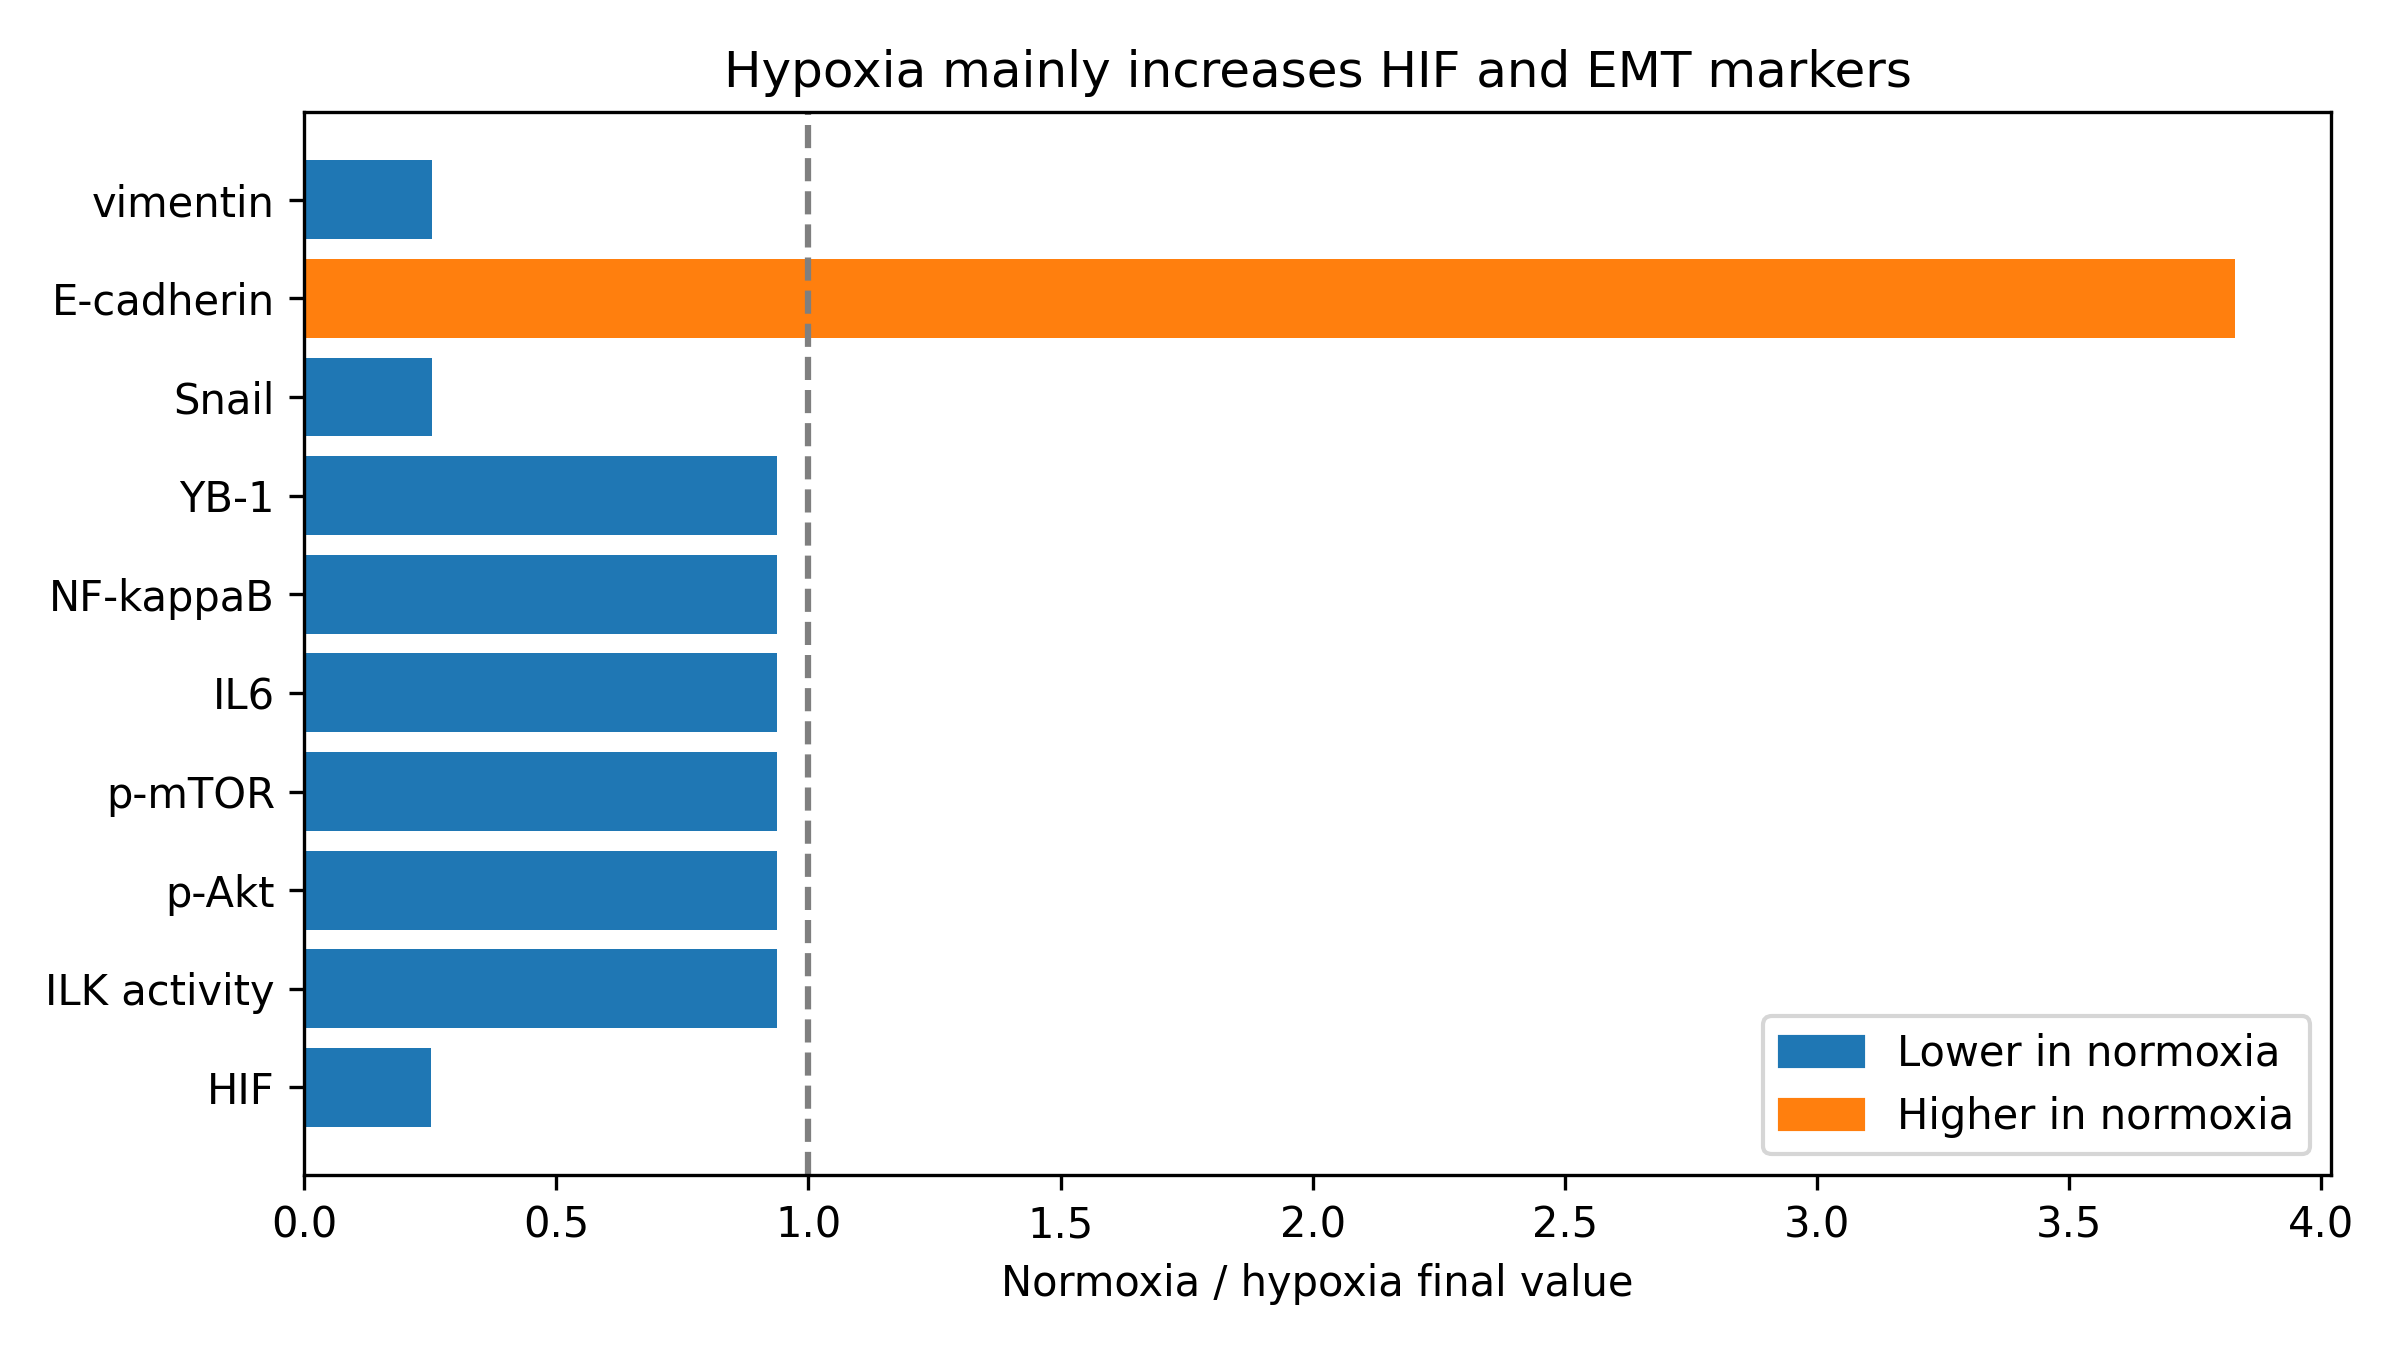
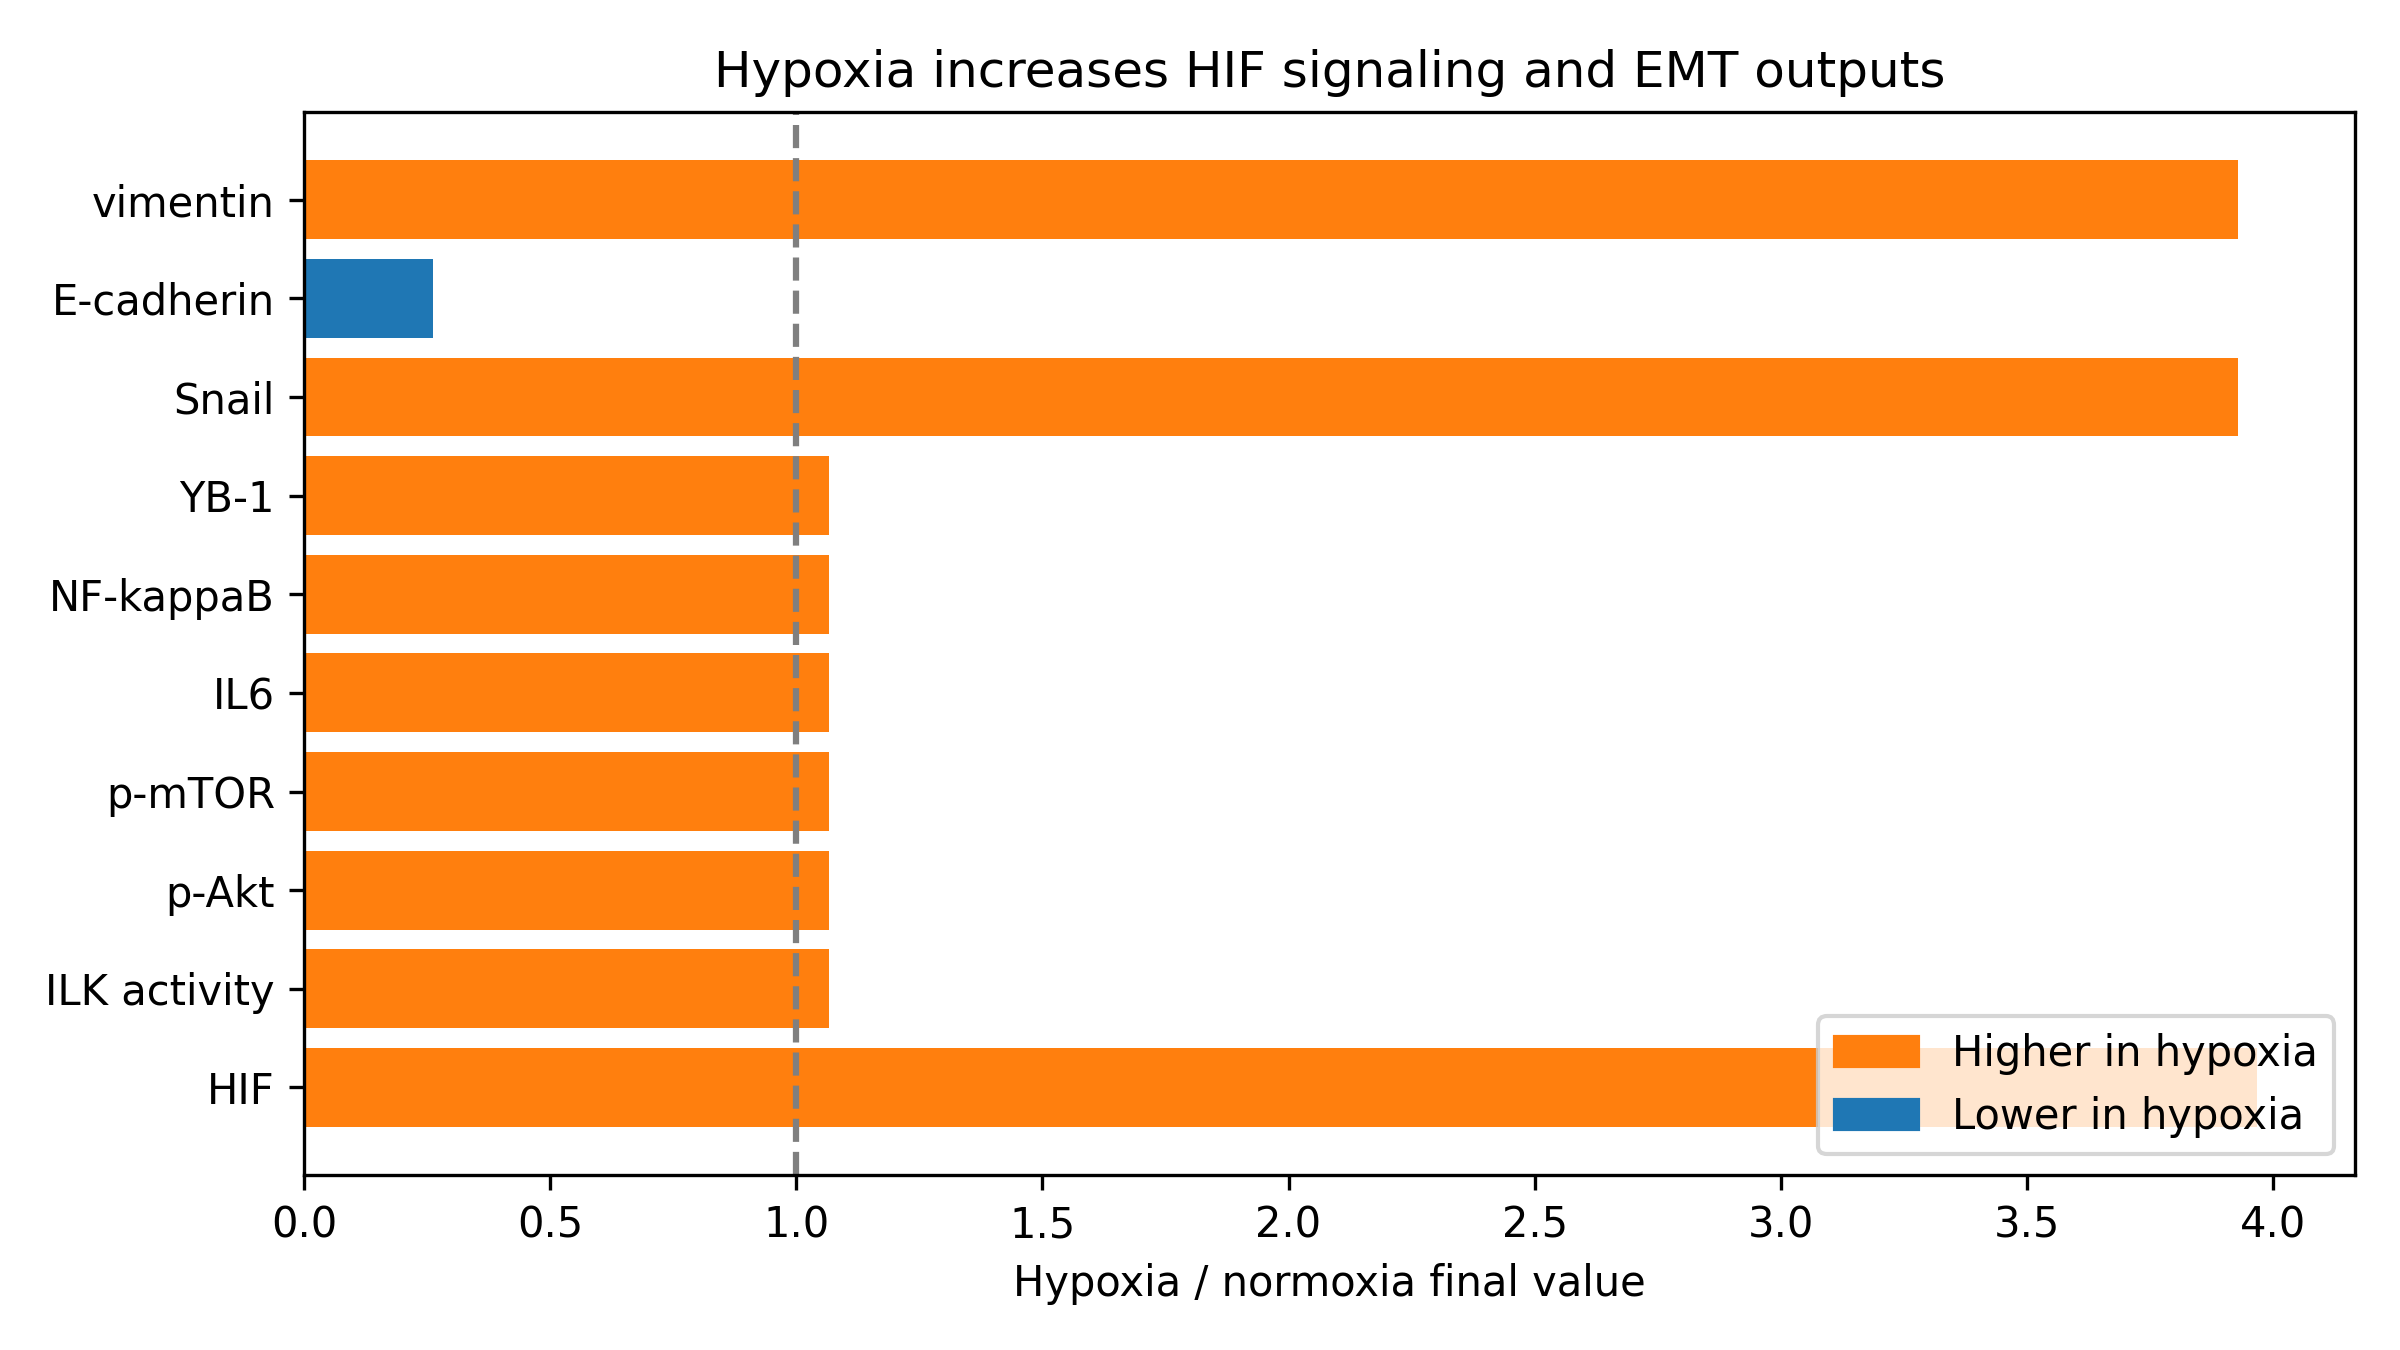
update plotting script to make the plots more intuitive to report; the hypoxia plot

diff --git a/analysis/results/analyse_hsu.py b/analysis/results/analyse_hsu.py
@@ -210,26 +210,26 @@ normoxia_values = [
     ecadherin_values[1],
     vimentin_values[1],
 ]
-normoxia_relative = []
+hypoxia_relative = []
 bar_colors = []
 for i in range(len(comparison_labels)):
-    value = normoxia_values[i] / hypoxia_values[i]
-    normoxia_relative.append(value)
+    value = hypoxia_values[i] / normoxia_values[i]
+    hypoxia_relative.append(value)
 
-    if value < 1:
-        bar_colors.append("tab:blue")
-    else:
+    if value > 1:
         bar_colors.append("tab:orange")
+    else:
+        bar_colors.append("tab:blue")
 
 plt.figure(figsize=(8, 4.5))
-plt.barh(comparison_labels, normoxia_relative, color=bar_colors)
+plt.barh(comparison_labels, hypoxia_relative, color=bar_colors)
 plt.axvline(1, color="tab:gray", linestyle="--")
-plt.xlabel("Normoxia / hypoxia final value")
-plt.title("Hypoxia mainly increases HIF and EMT markers")
+plt.xlabel("Hypoxia / normoxia final value")
+plt.title("Hypoxia increases HIF signaling and EMT outputs")
 plt.legend(
     handles=[
-        Patch(color="tab:blue", label="Lower in normoxia"),
-        Patch(color="tab:orange", label="Higher in normoxia"),
+        Patch(color="tab:orange", label="Higher in hypoxia"),
+        Patch(color="tab:blue", label="Lower in hypoxia"),
     ],
     loc="lower right",
 )